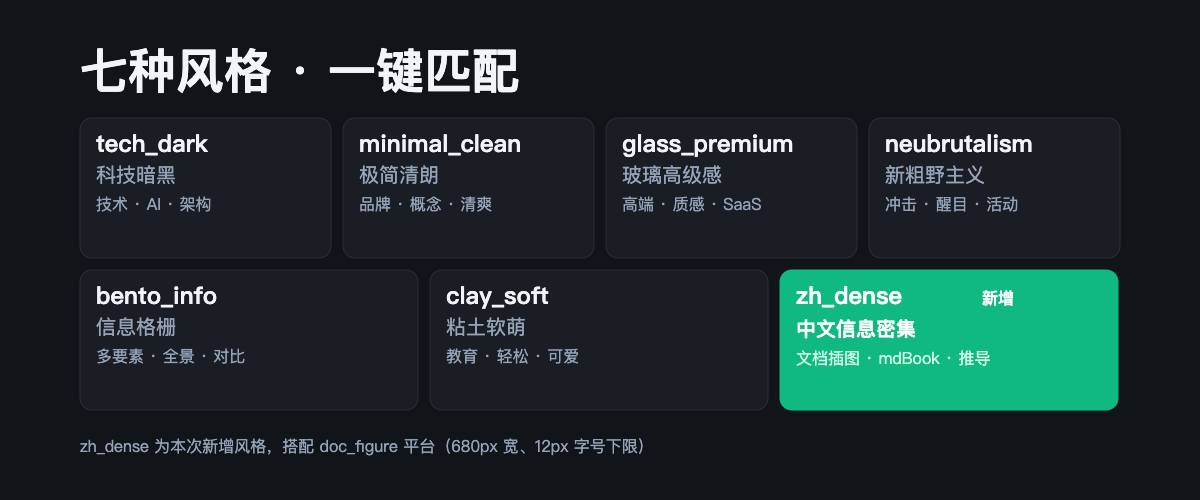
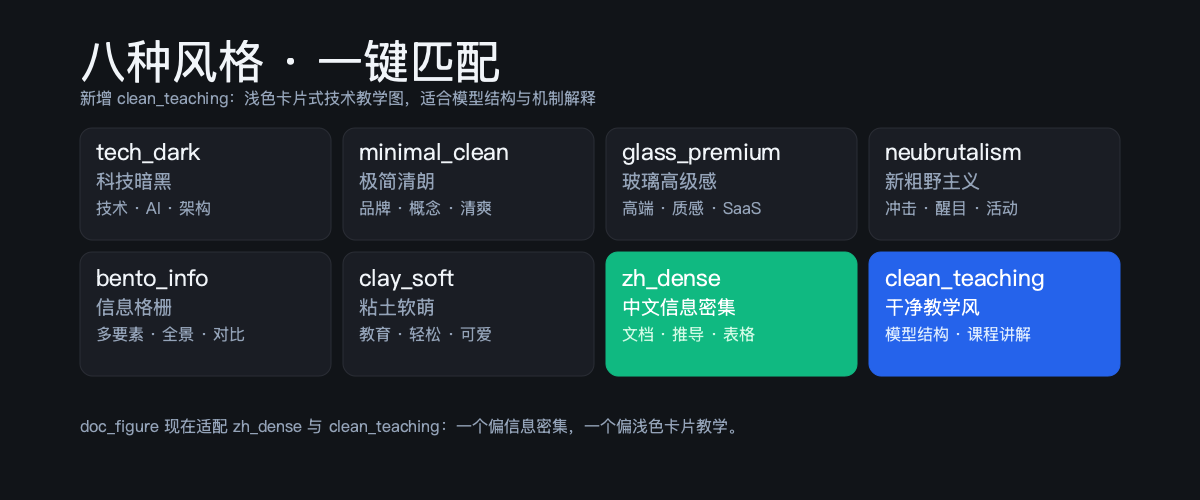
feat: add clean teaching SVG style

diff --git a/references/specs/clean_teaching.md b/references/specs/clean_teaching.md
@@ -1,0 +1,153 @@
+# Clean Teaching Visual Specification（干净教学风）
+
+> 面向技术教学、课程讲义、博客解释图、模型结构图的浅色卡片式 SVG 风格。
+> 它比 `zh_dense` 更克制、更留白；比 `minimal_clean` 信息量更高；核心目标是让复杂机制看起来清楚、温和、可讲解。
+
+## 适用场景
+
+- Transformer / LLM / Diffusion 等模型结构解释图
+- 算法流程、训练流程、推理流程、系统模块拆解
+- 教材、课程、博客、mdBook 中的机制说明图
+- 需要展示主流程 + 旁注 + 模块演进 + 残差/跳连的技术图
+
+## 不适用场景
+
+- 营销封面、活动海报、强情绪传播图
+- 极高密度表格/公式推导（优先使用 `zh_dense`）
+- 暗黑科技海报（优先使用 `tech_dark`）
+
+## 平台建议
+
+- **首选**：`doc_figure`（680×H，H 400–1000 弹性）
+- **可选**：`wechat_article`（1200×500，用于公众号文章中的教学插图）
+- **不建议**：`wechat_cover`（该风格不是强封面视觉）
+
+## 调色板（浅色柔和）
+
+| 角色 | 色值 | 用途 |
+|------|------|------|
+| Background | `#F8FAFC` | 画布底色 |
+| Surface | `#FFFFFF` | 卡片、模块底色 |
+| Ink | `#1E293B` | 标题与主文字 |
+| Ink-soft | `#475569` | 次级说明、标签 |
+| Border | `#E2E8F0` | 卡片描边、分隔线 |
+| Shadow | `rgba(15, 23, 42, 0.08)` | 轻阴影 |
+| Blue | `#2563EB` | 主流程、Attention、关键路径 |
+| Blue-tint | `#DBEAFE` | 蓝色区域/节点底色 |
+| Green | `#059669` | FFN、收益、完成 |
+| Green-tint | `#D1FAE5` | 绿色区域/节点底色 |
+| Purple | `#7C3AED` | Norm、Embedding、辅助模块 |
+| Purple-tint | `#EDE9FE` | 紫色区域/节点底色 |
+| Amber | `#D97706` | 注意事项、替换点、关键提示 |
+| Amber-tint | `#FEF3C7` | 提示框底色 |
+| Red | `#DC2626` | 残差连接、错误路径、风险 |
+| Red-tint | `#FEE2E2` | 红色提示底色 |
+
+**语义建议**：蓝=主流程/注意力，绿=FFN/正向变换，紫=归一化/辅助层，红=残差/跳连/风险，黄=备注/替换点。
+
+## 字体与字号
+
+字体栈：
+
+```text
+Segoe UI, PingFang SC, Noto Sans SC, Microsoft YaHei, system-ui, sans-serif
+```
+
+| 层级 | doc_figure | wechat_article | 字重 |
+|------|------------|----------------|------|
+| H1 标题 | 17–18px | 44–56px | 700 |
+| Subtitle | 12–13px | 20–24px | 400 |
+| 模块标题 | 13–14px | 22–28px | 600 |
+| 正文/节点文字 | 12–13px | 18–22px | 400 |
+| 小标签 | 12px | 16–18px | 500 |
+
+## 版式结构
+
+### 1. 标题区
+
+- 左上角标题 + 一行副标题。
+- 标题不做大字冲击，保持教学语气。
+- 可在右上角放 2–4 个图例 chip。
+
+### 2. 主流程区
+
+- 使用纵向或横向主流程作为视觉骨架。
+- 主路径节点采用白底圆角卡片，语义色描边或顶部小色条。
+- 箭头用 `#2563EB`，线宽 1.5–2px。
+- 节点之间保留 10–16px 间距，不挤压。
+
+### 3. 分区背景
+
+- 大区域可用淡色 tint 背景（如 Attention 区、FFN 区），透明度不要过高，避免糊成一片。
+- 分区标题放在左上角，用语义色深色文字。
+- 大分区只做轻描边，不使用强阴影。
+
+### 4. 旁注卡片
+
+- 左右两侧可放 1–3 个说明卡片。
+- 每张卡片聚焦一个概念："为什么需要残差"、"模块替换"、"N 层堆叠"等。
+- 旁注使用浅黄、浅紫、浅蓝底色，文字仍保持深色。
+
+### 5. 残差 / 跳连
+
+- 残差连接建议用红色虚线或弧线：`stroke="#DC2626" stroke-dasharray="5 5"`。
+- 必须加文字标签，避免读者误解为错误路径。
+- 标签用深红 `#991B1B`，不使用白字。
+
+## 视觉特征
+
+- 圆角：模块 `rx=8–12`，小节点 `rx=6–8`。
+- 阴影：轻量即可，如 `drop-shadow(0 2px 6px rgba(15,23,42,0.08))`。
+- 边框：1px `#E2E8F0`，重点节点可用 1.5px 语义色描边。
+- 留白：比 `zh_dense` 更宽松，块间距 12–20px。
+- 信息密度：中高密度；一张图讲清一个机制，但不追求表格化压缩。
+
+## 与其他风格的区别
+
+| 对比对象 | 区别 |
+|----------|------|
+| `zh_dense` | `clean_teaching` 更柔和、更卡片化、更留白；`zh_dense` 更紧凑、更表格/公式密集。 |
+| `minimal_clean` | `clean_teaching` 信息块更多，允许流程、旁注、分区并存；`minimal_clean` 更偏品牌/概念表达。 |
+| `bento_info` | `clean_teaching` 有明确主流程骨架；`bento_info` 更偏格栅全景。 |
+
+## 硬约束
+
+1. 所有文字使用深色：Ink、Ink-soft 或语义深色，不使用白字。
+2. `doc_figure` 下最小字号 ≥12px。
+3. 所有 `id` 统一使用 `svga-<slug>-` 前缀。
+4. 背景必须为浅色纯色，禁止深色画布。
+5. 不使用外部图片、外部字体、`foreignObject`、`script`。
+6. 不使用大面积渐变、霓虹光效、复杂模糊背景。
+
+## 推荐构图模板
+
+### 模板 A：模型层结构图
+
+- 中央：纵向主流程节点
+- 左侧：概念说明卡片
+- 右侧：模块替换/演进卡片
+- 背景：按子层分为 2–3 个淡色区域
+- 红色虚线：残差连接
+
+### 模板 B：算法机制解释图
+
+- 顶部：一句结论
+- 中部：横向步骤链路
+- 底部：关键公式 / 注意事项 / 输入输出对照
+
+### 模板 C：系统模块教学图
+
+- 左侧：输入与上下文
+- 中央：处理模块栈
+- 右侧：输出与效果
+- 底部：异常路径或缓存/优化说明
+
+## 完成自检
+
+- [ ] 标题、副标题、图例齐全
+- [ ] 主流程一眼可追踪
+- [ ] 每个语义色在全图含义一致
+- [ ] 旁注不抢主流程视觉权重
+- [ ] 没有白色/浅色文字
+- [ ] 最小字号满足平台下限
+- [ ] 所有 id 带 `svga-` 前缀

diff --git a/README.md b/README.md
@@ -8,7 +8,7 @@
 
 ## ✨ 本次新增：`zh_dense` 风格 + `doc_figure` 平台
 
-这是本版本的核心更新：在原有的 6 种公众号视觉风格之外，新增了面向**技术文档插图**的第七种风格 `zh_dense`（中文信息密集），并配套新增 `doc_figure` 平台规格。
+文档插图能力是近期核心更新：在原有的 6 种公众号视觉风格之外，新增了面向**技术文档插图**的 `zh_dense`（中文信息密集），并配套新增 `doc_figure` 平台规格。本次进一步补充第八种风格 `clean_teaching`（干净教学风），用于 Transformer / LLM / 架构机制这类浅色卡片式讲解图。
 
 ### 为什么新增
 
@@ -56,11 +56,11 @@
 |----------|----------|---------|
 | `wechat_cover` | 公众号封面图、头图 | 1800 × 766 |
 | `wechat_article` | 公众号配图、插图、架构图、流程图、示意图、时序图、海报 | 1200 × 500 |
-| `doc_figure` | 技术文档 / mdBook / 博客内嵌插图（`zh_dense` 风格专用） | 680 × (400–1000 弹性) |
+| `doc_figure` | 技术文档 / mdBook / 博客内嵌插图（适配 `zh_dense` / `clean_teaching`） | 680 × (400–1000 弹性) |
 
 ---
 
-## 七种风格
+## 八种风格
 
 | Style ID | 中文名 | 触发关键词 |
 |----------|--------|-----------|
@@ -70,7 +70,8 @@
 | `neubrutalism` | 新粗野主义 | 冲击、醒目、大字、粗野、Z 世代、活动、宣传 |
 | `bento_info` | 信息格栅 | 信息密集、多要素、全景图、功能对比、格栅、架构全景 |
 | `clay_soft` | 粘土软萌 | 教育、软萌、轻松、亲子、健康、生活方式、可爱 |
-| `zh_dense` | 中文信息密集 | 文档插图、mdBook、教材、讲义、博客、原理图、推导、对比表（**新增**） |
+| `zh_dense` | 中文信息密集 | 文档插图、mdBook、教材、讲义、博客、原理图、推导、对比表 |
+| `clean_teaching` | 干净教学风 | 教学图、课程讲义、模型结构、Transformer、机制解释、浅色卡片（**新增**） |
 
 ---
 
@@ -78,17 +79,21 @@
 
 以下为各平台/风格的代表性示例，由本项目自身脚本渲染（`scripts/render_svg_preview.py`）并全部通过校验器。
 
-### 文档插图 · `doc_figure` + `zh_dense`
+### 文档插图 · `doc_figure`
 
-| 平台与字号对比 | 生成流程 | 对比度校验原理 |
-|----------------|----------|----------------|
+| 平台与字号对比（`zh_dense`） | 生成流程（`zh_dense`） | 对比度校验原理（`zh_dense`） |
+|------------------------------|----------------------|------------------------------|
 | ![平台与字号对比](examples/zh_dense_platform_compare.png) | ![生成流程](examples/zh_dense_workflow.png) | ![对比度校验原理](examples/zh_dense_derivation.png) |
+
+| Transformer 层结构（`clean_teaching`） |
+|----------------------------------------|
+| ![Transformer 层结构教学图](examples/clean_teaching_transformer.png) |
 
 ### 公众号 · `wechat_cover` / `wechat_article`
 
-| 封面（`tech_dark`） | 七种风格全景（`bento_info`） |
+| 封面（`tech_dark`） | 八种风格全景（`bento_info`） |
 |---------------------|------------------------------|
-| ![科技暗黑封面](examples/tech_dark_cover.png) | ![七种风格全景](examples/bento_info_styles.png) |
+| ![科技暗黑封面](examples/tech_dark_cover.png) | ![八种风格全景](examples/bento_info_styles.png) |
 
 ---
 
@@ -106,14 +111,15 @@
 │   ├── fonts_whitelist.json         # 字体白名单
 │   ├── error_codes.md               # 错误码与退出码
 │   ├── quality_checklist.md         # 交付质检清单
-│   └── specs/                       # 七种风格规范
+│   └── specs/                       # 八种风格规范
 │       ├── tech_dark.md
 │       ├── minimal_clean.md
 │       ├── glass_premium.md
 │       ├── neubrutalism.md
 │       ├── bento_info.md
 │       ├── clay_soft.md
-│       └── zh_dense.md              # 新增
+│       ├── zh_dense.md
+│       └── clean_teaching.md        # 新增
 └── scripts/
     ├── run_pipeline.py              # 全流程管道
     ├── svg_validator.py             # 校验器（含 doc_figure）
@@ -138,7 +144,7 @@ playwright install chromium
 ## 工作流概览
 
 1. **识别输出类型**：映射到 `wechat_cover` / `wechat_article` / `doc_figure`。
-2. **选择风格**：无指定时按关键词推断；文档/课程/博客密集内容 → `doc_figure` + `zh_dense`。
+2. **选择风格**：无指定时按关键词推断；文档/课程/博客密集内容 → `doc_figure` + `zh_dense`；干净课程/模型结构讲解 → `doc_figure` + `clean_teaching`。
 3. **规划布局**：生成 `<slug>.layout.json` 布局计划。
 4. **生成 SVG**：完整文件，含 `<title>`/`<desc>`、`svga-` ID 前缀、安全区约束。
 5. **校验与修复**：
@@ -152,4 +158,4 @@ playwright install chromium
 
 ## 版本
 
-当前 `metadata.version` 为 **0.16**，本次在此基础上新增 `zh_dense` 风格与 `doc_figure` 平台能力。
+当前 `metadata.version` 为 **0.17**，本次在 `zh_dense` / `doc_figure` 基础上新增 `clean_teaching`（干净教学风）样式能力。

diff --git a/SKILL.md b/SKILL.md
@@ -7,14 +7,15 @@ description: >
   "配图"、"插图"、"架构图"、"流程图"、"示意图"、"时序图"、"设计海报"、"出一张图"等请求。
   Also handles dense documentation figures (mdBook/博客插图, 680px wide) via the
   zh_dense style. Generate pure-code SVG files sized for WeChat (cover 1800x766,
-  article image 1200x500) or docs (680xH) in one of seven styles: tech_dark
+  article image 1200x500) or docs (680xH) in one of eight styles: tech_dark
   (科技暗黑), minimal_clean (极简清朗), glass_premium (玻璃高级感), neubrutalism
-  (新粗野主义), bento_info (信息格栅), clay_soft (粘土软萌), zh_dense (中文信息密集).
+  (新粗野主义), bento_info (信息格栅), clay_soft (粘土软萌), zh_dense (中文信息密集),
+  clean_teaching (干净教学风).
   Do not use for photorealistic bitmap generation, general image editing, UI
   screens, or non-WeChat deliverables unless the user explicitly asks for an SVG.
 compatibility: "Agent Skills compatible"
 metadata:
-  version: "0.16"
+  version: "0.17"
   author: donglinzhao
 ---
 
@@ -43,6 +44,7 @@ Load only the files needed for the current task:
   - `bento_info` → `references/specs/bento_info.md`
   - `clay_soft` → `references/specs/clay_soft.md`
   - `zh_dense` → `references/specs/zh_dense.md`
+  - `clean_teaching` → `references/specs/clean_teaching.md`
 - Read `references/layout_plan.schema.json` when saving a layout plan or running strict geometry checks.
 - Read `references/prompt_template.md` when the layout is complex or the plan shape is unclear.
 - Read `references/fonts_whitelist.json` before choosing final font stacks.
@@ -57,9 +59,9 @@ Map the user request to a platform profile:
 
 - `wechat_cover` (1800x766): 封面、封面图、头图.
 - `wechat_article` (1200x500): 配图、插图、文章图、架构图、流程图、示意图、时序图、海报.
-- `doc_figure` (680xH, height 400–1000 elastic): 文档插图、mdBook 插图、博客插图、教材插图、原理图、推导图 — pair with the `zh_dense` style.
+- `doc_figure` (680xH, height 400–1000 elastic): 文档插图、mdBook 插图、博客插图、教材插图、原理图、推导图 — pair with `zh_dense` or `clean_teaching`.
 
-If the request is ambiguous, use `wechat_article` and continue. For documentation/course/blog contexts (mdBook, 教材, 讲义, 博客配图), use `doc_figure` + `zh_dense`.
+If the request is ambiguous, use `wechat_article` and continue. For documentation/course/blog contexts (mdBook, 教材, 讲义, 博客配图), use `doc_figure` + `zh_dense`; for clean course-style model/architecture explanations, use `doc_figure` + `clean_teaching`.
 
 ### 2. Choose Style
 
@@ -74,6 +76,7 @@ Infer a style when the user does not specify one. Map the request keywords to th
 | `bento_info` | 信息格栅 | 信息密集、多要素、全景图、功能对比、格栅、架构全景 |
 | `clay_soft` | 粘土软萌 | 教育、软萌、轻松、亲子、健康、生活方式、非技术、可爱 |
 | `zh_dense` | 中文信息密集 | 文档插图、mdBook、教材、讲义、博客、原理图、推导、对比表、信息密集、结论先行 |
+| `clean_teaching` | 干净教学风 | 教学图、课程讲义、模型结构、Transformer、机制解释、干净、卡片、浅色、柔和 |
 
 Default fallback rules when keywords are ambiguous:
 - Technical content → `tech_dark`
@@ -81,6 +84,7 @@ Default fallback rules when keywords are ambiguous:
 - Light / non-technical topics → `clay_soft`
 - Clean product/brand content → `minimal_clean`
 - Documentation / course / blog figures with dense content → `zh_dense` on `doc_figure`
+- Clean teaching diagrams for model structure / architecture explanation → `clean_teaching` on `doc_figure`
 
 State the inferred style briefly and proceed.
 
@@ -206,4 +210,5 @@ Do not claim validation passed unless the script was run and returned success.
 - Style fallback: when style is ambiguous, prefer `tech_dark` for technical topics, `bento_info` for information-dense multi-element diagrams, `clay_soft` for non-technical/light topics, `minimal_clean` for brand/product.
 - `neubrutalism` hard shadows must be implemented as offset duplicate `<rect>` elements, NOT `drop-shadow` filter (filter produces soft edges which breaks the style).
 - `zh_dense` figures are 680 wide with elastic height; the validator identifies `doc_figure` by width only and applies a 12px font floor. All text must be dark colors — the contrast check compares text fill against the canvas background `#F8FAFC`, so white/light text fails even when it sits on a colored chip.
+- `clean_teaching` is for clean course-style technical explanation diagrams: soft cards, shallow tint regions, visible main flow, side notes, and optional dashed residual/skip connections.
 - `render_svg_preview.py --platform doc_figure` derives expected height from the SVG's own viewBox; thumbnail crop is the horizontal center 50%.

diff --git a/references/platform_profiles.md b/references/platform_profiles.md
@@ -8,7 +8,7 @@
 |----------|----------|----|----|------------------|
 | `wechat_cover` | 公众号封面图、头图 | 1800 | 766 | 150 80 1500 606 |
 | `wechat_article` | 公众号配图、插图、架构图、流程图、示意图、时序图、海报 | 1200 | 500 | 80 50 1040 400 |
-| `doc_figure` | 技术文档/mdBook/博客内嵌插图（`zh_dense` 风格专用） | 680 | 400–1000（按内容弹性） | 24 24 632 (h−48) |
+| `doc_figure` | 技术文档/mdBook/博客内嵌插图（适配 `zh_dense` / `clean_teaching`） | 680 | 400–1000（按内容弹性） | 24 24 632 (h−48) |
 
 **默认类型**：识别不到场景时，使用 `wechat_article`（1200×500）。
 
